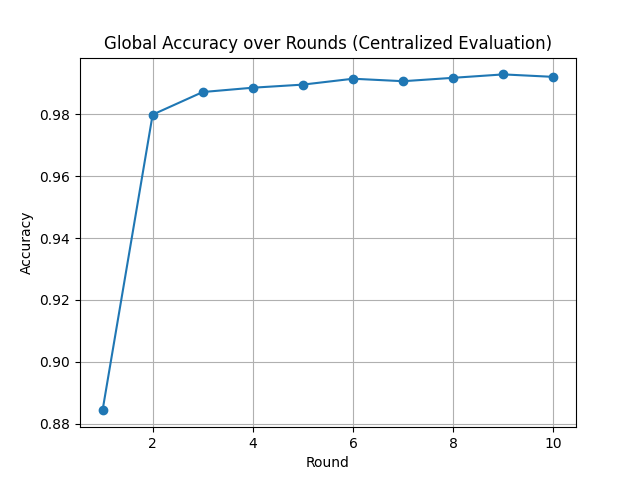
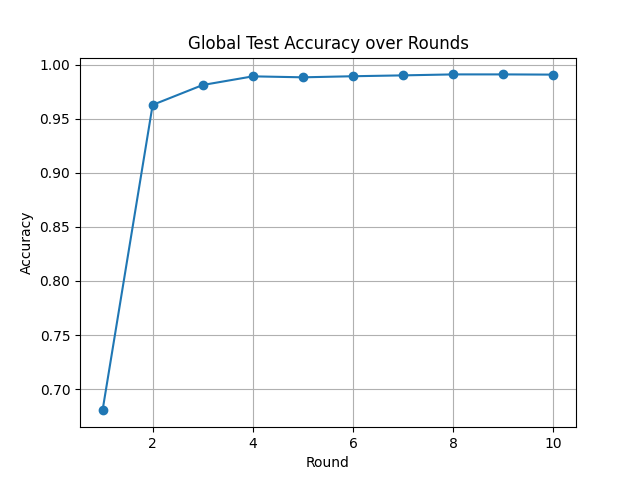
Fixes code

diff --git a/app.py b/app.py
@@ -1,4 +1,4 @@
-# app_clean.py
+# app.py
 import torch
 from torch.utils.data import DataLoader, Subset
 import flwr as fl
@@ -11,7 +11,7 @@ from client import FlowerClient
 
 DEVICE = torch.device("cuda" if torch.cuda.is_available() else "cpu")
 
-# Centralized evaluation after each round
+# Centralized evaluation function
 def evaluate_global_model(model, test_loader):
     model.eval()
     loss, correct = 0.0, 0
@@ -48,14 +48,12 @@ if __name__ == "__main__":
             super().__init__()
             self.global_model = global_model
             self.history = []
-        
+
         def aggregate_fit(self, rnd, results, failures):
             aggregated_result = super().aggregate_fit(rnd, results, failures)
 
             if aggregated_result is not None:
-                parameters_aggregated, _ = aggregated_result  # ✅ unpack tuple (parameters, metrics)
-
-                # ✅ Apply new aggregated parameters to the global model
+                parameters_aggregated, _ = aggregated_result
                 params_ndarrays = fl.common.parameters_to_ndarrays(parameters_aggregated)
                 params_dict = zip(self.global_model.state_dict().keys(), params_ndarrays)
                 state_dict = {k: torch.tensor(v) for k, v in params_dict}
@@ -80,18 +78,18 @@ if __name__ == "__main__":
     end_time = time.time()
     print(f"\n⏱ Simulation completed in {end_time - start_time:.2f} seconds.")
 
-    # Save results
+    # Save round-wise results
     with open("round_centralized_accuracy.csv", "w", newline="") as f:
         writer = csv.writer(f)
         writer.writerow(["Round", "Accuracy"])
         writer.writerows(strategy.history)
 
-    # Plot results
+    # Plot
     rounds = [r for r, _ in strategy.history]
     accuracies = [a for _, a in strategy.history]
 
     plt.plot(rounds, accuracies, marker="o")
-    plt.title("Global Accuracy over Rounds (Centralized Evaluation)")
+    plt.title("Global Test Accuracy over Rounds")
     plt.xlabel("Round")
     plt.ylabel("Accuracy")
     plt.grid(True)

diff --git a/model.py b/model.py
@@ -5,15 +5,15 @@ import torch.nn.functional as F
 class Net(nn.Module):
     def __init__(self):
         super(Net, self).__init__()
-        self.conv1 = nn.Conv2d(1, 32, 3, padding=1)
-        self.conv2 = nn.Conv2d(32, 64, 3, padding=1)
-        self.pool = nn.MaxPool2d(2, 2)
+        self.conv1 = nn.Conv2d(1, 32, kernel_size=3, padding=1)
+        self.conv2 = nn.Conv2d(32, 64, kernel_size=3, padding=1)
         self.fc1 = nn.Linear(64 * 7 * 7, 128)
         self.fc2 = nn.Linear(128, 10)
+        self.pool = nn.MaxPool2d(2, 2)
 
     def forward(self, x):
-        x = self.pool(F.relu(self.conv1(x)))  # (batch, 32, 14,14)
-        x = self.pool(F.relu(self.conv2(x)))  # (batch, 64, 7,7)
+        x = self.pool(F.relu(self.conv1(x)))  # 28x28 -> 14x14
+        x = self.pool(F.relu(self.conv2(x)))  # 14x14 -> 7x7
         x = x.view(-1, 64 * 7 * 7)
         x = F.relu(self.fc1(x))
         x = self.fc2(x)

diff --git a/utils.py b/utils.py
@@ -1,4 +1,4 @@
-# utils_clean.py
+# utils.py
 from torchvision import datasets, transforms
 import numpy as np
 
@@ -16,7 +16,6 @@ def partition_data(train_dataset, num_clients, non_iid=True):
     labels = np.array(train_dataset.targets)
 
     if not non_iid:
-        # IID
         all_indices = np.arange(len(train_dataset))
         np.random.shuffle(all_indices)
         return [
@@ -24,7 +23,6 @@ def partition_data(train_dataset, num_clients, non_iid=True):
             for i in range(num_clients)
         ]
 
-    # Balanced Non-IID Partition
     idx_by_label = {i: np.where(labels == i)[0].tolist() for i in range(10)}
     client_indices = []
 

diff --git a/client.py b/client.py
@@ -1,4 +1,4 @@
-# client_clean.py
+# client.py
 import flwr as fl
 import torch
 import torch.nn as nn
